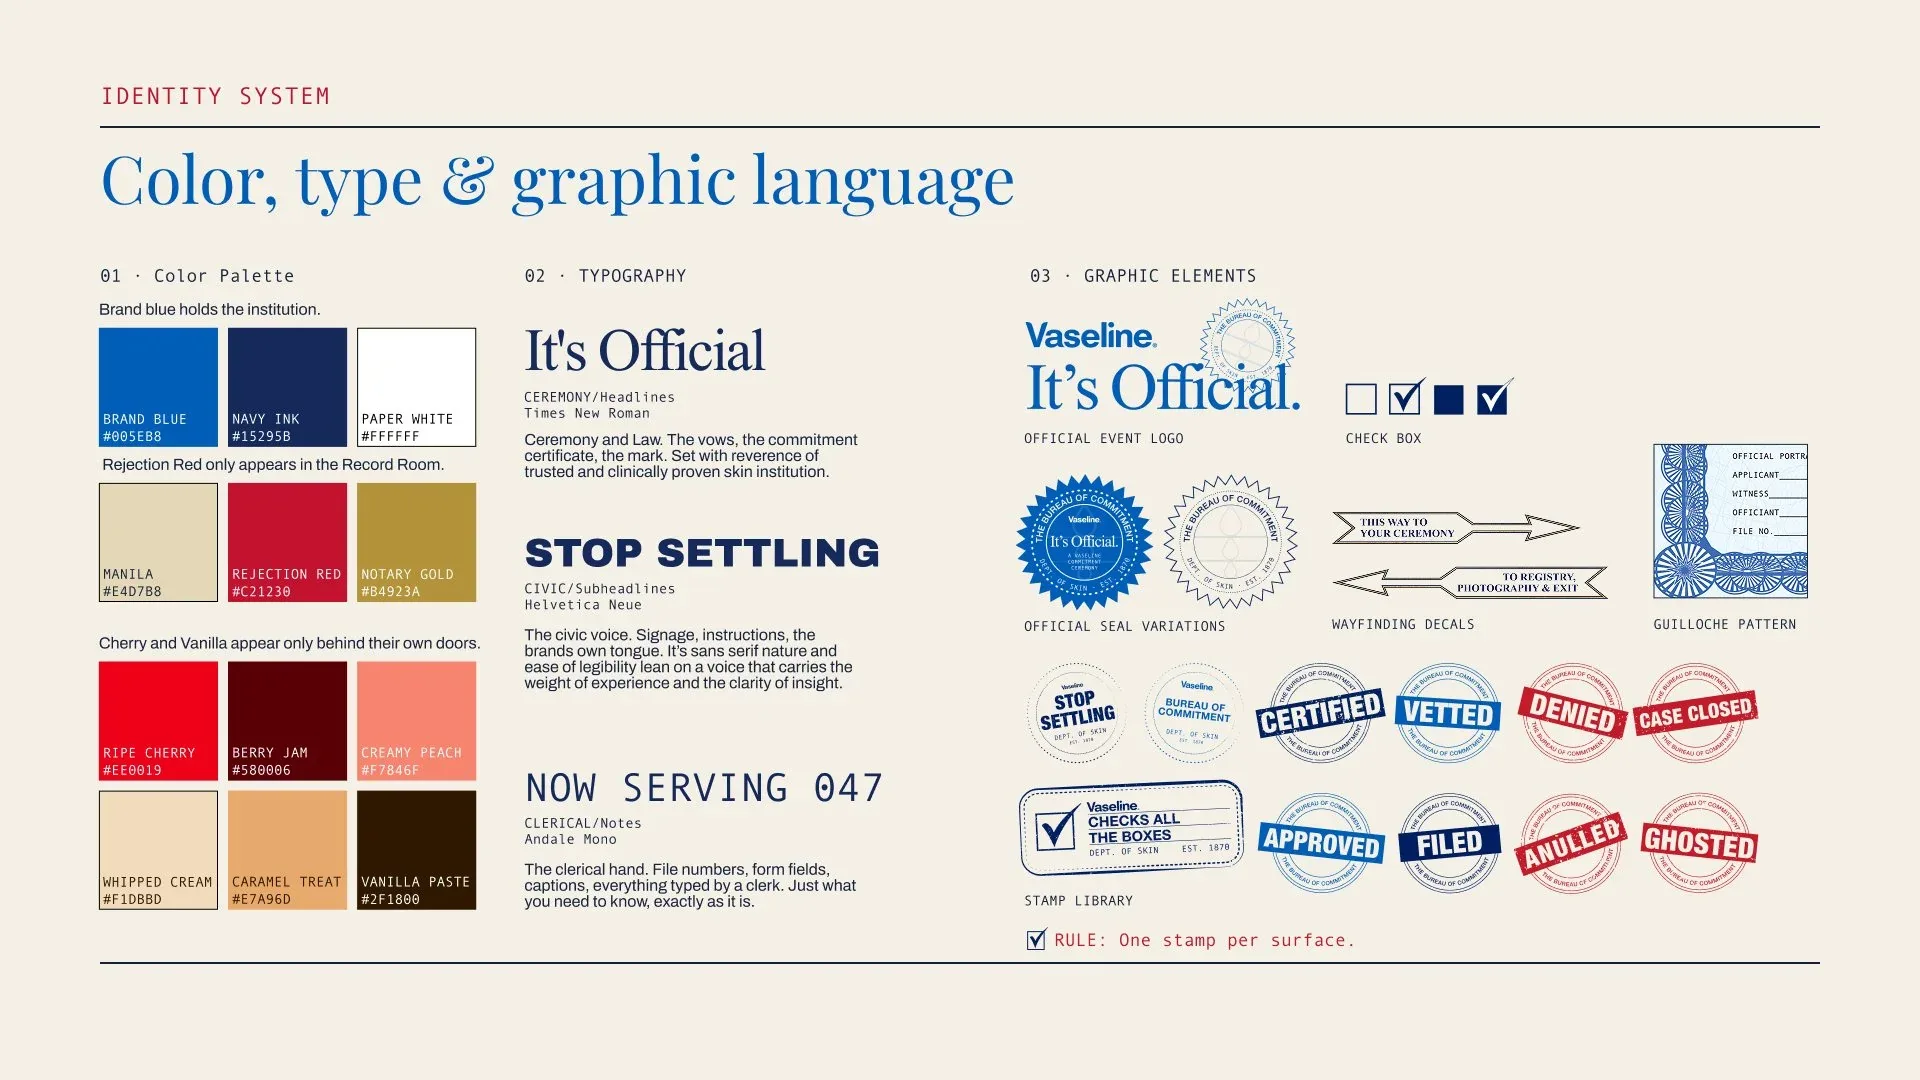
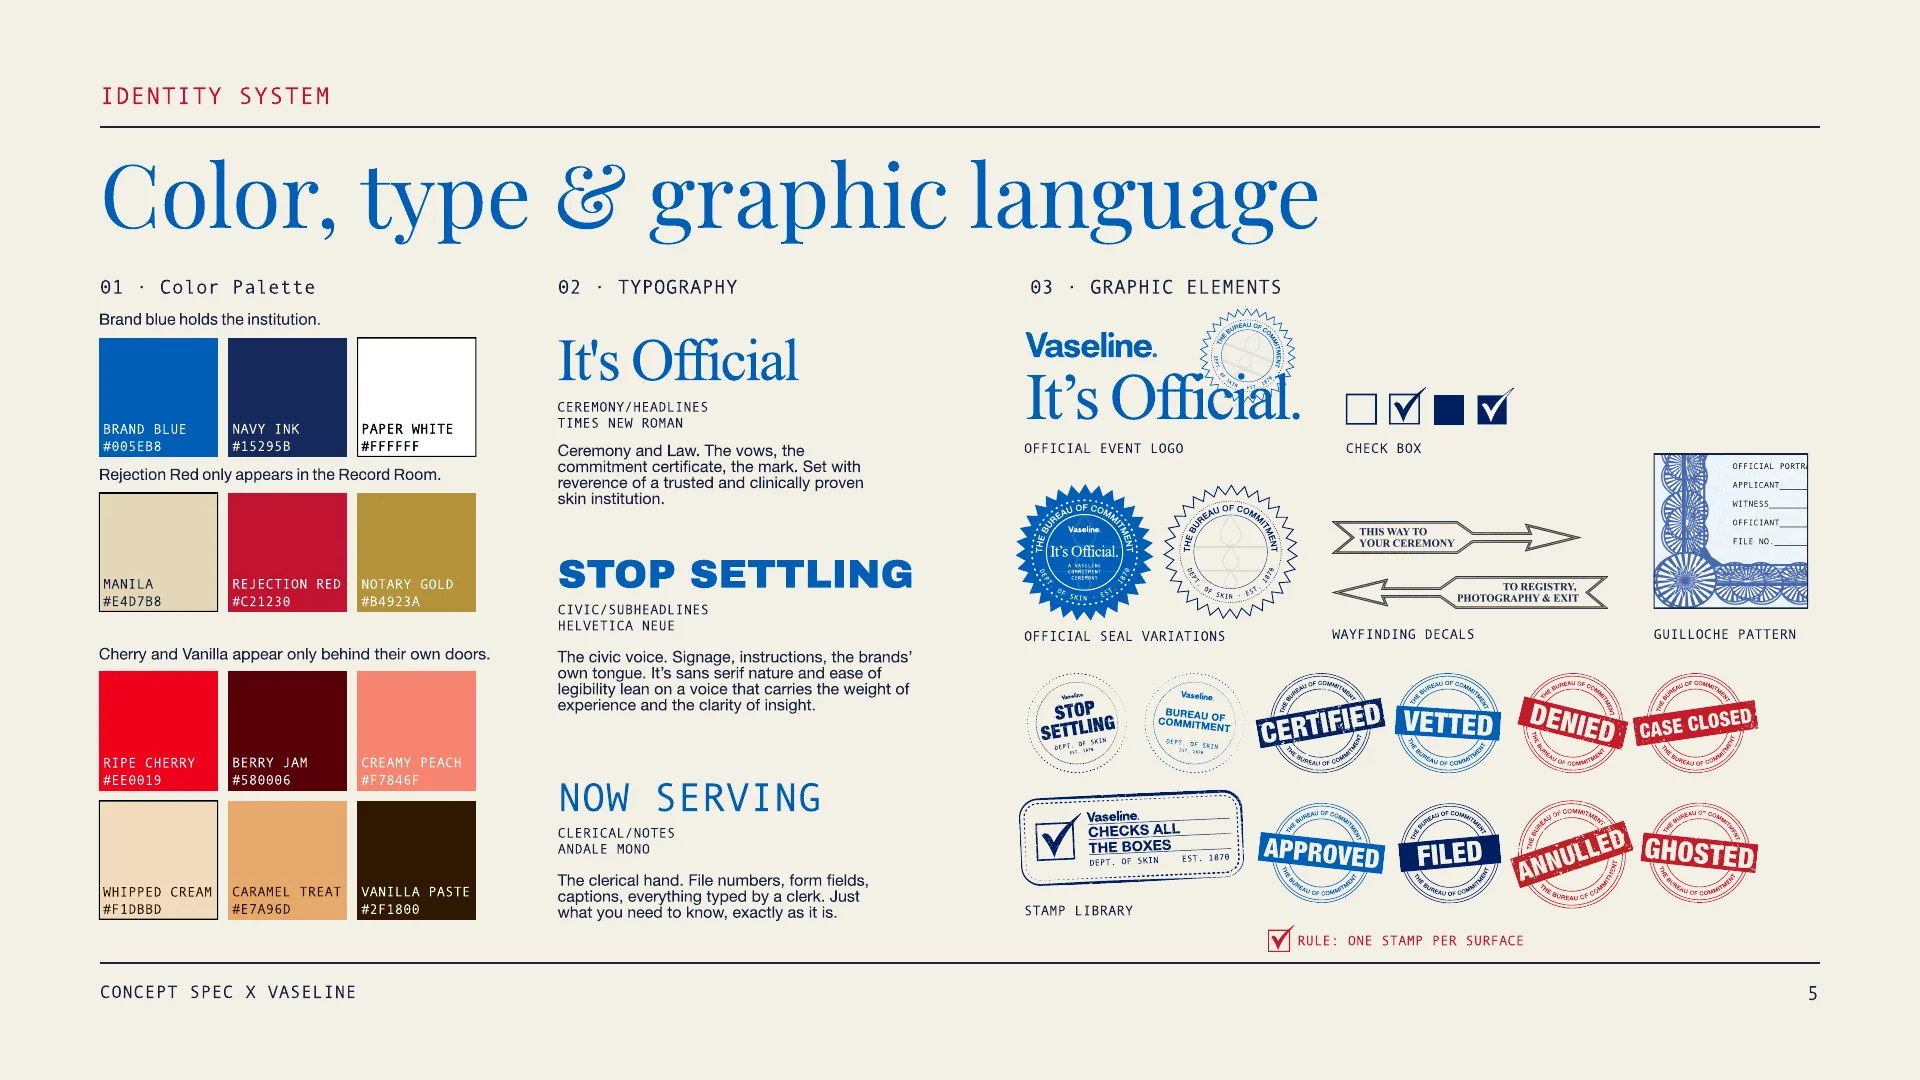
Bureau of Commitment: rebuild from Beth's updated deck (new slides, letterboard, Notice of Appointment, Now Serving, vows)
Claude-Session: https://claude.ai/code/session_01EoUpks6VWixKVrfVUbmg36

diff --git a/project-pages/bureau-of-commitment.html b/project-pages/bureau-of-commitment.html
@@ -1,5 +1,5 @@
 <!-- ============================================================
-  BETH ERIN NEWMAN · PROJECT PAGE: THE BUREAU OF COMMITMENT, VASELINE SPEC  (v1, 2026-11-25, built on the See It Differently template)
+  BETH ERIN NEWMAN · PROJECT PAGE: THE BUREAU OF COMMITMENT, VASELINE SPEC  (v2, 2026-11-25, from Beth's updated deck, built on the See It Differently template)
   Paste ALL of this into ONE Embed block (Code Snippet) on the project page /work-new/experiential-event-identity.
   Needs check-menu-sitewide.html in Code Injection > Footer (napkin + check) and tablecloth-background.css in Custom CSS (gingham).
   The napkin, guest check and gingham stay still. Only this project card scrolls up the page, under the napkin.
@@ -38,34 +38,34 @@
       <li>Event identity and seal</li>
       <li>A four-room guest journey</li>
       <li>Two scent chapels</li>
-      <li>Wayfinding and signs</li>
-      <li>Certificates and paperwork</li>
+      <li>Signs and wayfinding</li>
+      <li>Invites, vows and certificates</li>
     </ul>
   </div>
   <figure class="sid-m sid-hero"><img data-src="entrance" alt="A couple heading into The Bureau of Commitment past a You deserve better, right this way floor mat"></figure>
   <div class="sid-brief">
     <h2>The brief</h2>
-    <p>Vaseline had two new body lotions, Cherry Aura and Vanilla Comfort, and a campaign about not settling. So I opened a marriage bureau. Guests take a number, meet both applicants, then commit to one scent for life. The vows are the product claims, and everyone leaves with a Certificate of Commitment.</p>
+    <p>Vaseline had two new body lotions, Cherry Aura and Vanilla Comfort, and a campaign about not settling. So I opened a marriage bureau. Guests take a number, meet both applicants, then commit to one scent for life. The vows are the clinical claims, and everyone leaves with a certificate and an official portrait.</p>
   </div>
-  <figure class="sid-m sid-video1"><div class="sid-track"><img data-src="slideCover" alt="It's Official cover: The Bureau of Commitment, Dept. of Skin, Est. 1870, with both lotions on a county clerk's desk"><img data-src="slideBigIdea" alt="The big idea: Stop settling. Make it official. A municipal marriage bureau for your skin"><img data-src="slideWhyBureau" alt="Why a bureau? Each campaign line mapped to a room of the Bureau"></div></figure>
+  <figure class="sid-m sid-video1"><div class="sid-track"><img data-src="slideCover" alt="It's Official cover: The Bureau of Commitment, Dept. of Skin, Est. 1870, with both lotions on a county clerk's desk"><img data-src="slideBigIdea" alt="The big idea: Stop settling. Make it official. A municipal marriage bureau for your skin"><img data-src="slideWhyBureau" alt="Why a bureau? Each campaign line mapped to a room of the Bureau"><img data-src="slideLookFeel" alt="The look and the feel: civic austerity for the Bureau, lacquer red for Cherry Aura, caramel for Vanilla Comfort"></div></figure>
   <p class="sid-caption">Vaseline has been stamping its Blue Seal on things since 1870, so a bureau felt like home. I didn't have to invent a world, just find the one the brand already lives in.</p>
   <div class="sid-gifs">
     <figure class="sid-m"><img data-src="letterboard" alt="Lobby letterboard listing the Lobby, the Assessment, the Chapels and the Registry"></figure>
     <figure class="sid-m"><img data-src="recordsRoom" alt="The Records Room, a wall of filed boxes for every lotion that let you down, stamped Denied and Ghosted"></figure>
-    <figure class="sid-m"><img data-src="proceedings" alt="Order of Proceedings with the It's Official seal"></figure>
+    <figure class="sid-m"><img data-src="notice" alt="Notice of Appointment, the summons guests get before they arrive"></figure>
   </div>
   <div class="sid-credits">
     <h2>Credits</h2>
     <p><span>Concept, Identity, Experiential Design and Copy: Beth&nbsp;Newman<br>Brand assets and product photos: Vaseline<br>A spec concept, not commissioned by Vaseline</span></p>
   </div>
-  <figure class="sid-m sid-stills"><div class="sid-track"><img data-src="slideIdentity" alt="Identity system: color palette, type and a stamp library"><img data-src="slideLockups" alt="Lockups and taglines: It's Official, Till dry skin do us part, Certified since 1870"></div></figure>
+  <figure class="sid-m sid-stills"><div class="sid-track"><img data-src="slideIdentity" alt="Identity system: color palette, type and a stamp library"><img data-src="slideLockups" alt="Lockups and taglines: It's Official, Till dry skin do us part, Certified since 1870"><img data-src="slideBuilding" alt="The building tells you what it is: the entrance, the Now Serving board, the letterboard and the Records Room"></div></figure>
   <figure class="sid-m sid-app"><img data-src="certificate" alt="Vaseline Certificate of Commitment with a guilloche border and the It's Official seal"></figure>
-  <figure class="sid-m sid-video2"><div class="sid-track"><img data-src="slideJourney" alt="The guest journey with a floor plan from the waiting room to the registry"><img data-src="slideChapels" alt="The two chapels: Cherry Aura is the whirlwind, Vanilla Comfort is the slow burn"></div></figure>
+  <figure class="sid-m sid-video2"><div class="sid-track"><img data-src="slideJourney" alt="The guest journey with a floor plan from the waiting room to the registry"><img data-src="slideChapels" alt="The two chapels: Cherry Aura is the whirlwind, Vanilla Comfort is the slow burn"><img data-src="slideDocuments" alt="Everything is a document: vows booklet, Order of Proceedings, certificate and Notice of Appointment"></div></figure>
   <div class="sid-cartoons">
     <figure class="sid-m"><img data-src="sqProducts" alt="Cherry Aura and Vanilla Comfort lotions on the county clerk's counter"></figure>
+    <figure class="sid-m"><img data-src="sqNowServing" alt="The Now Serving board in the lobby"></figure>
+    <figure class="sid-m"><img data-src="sqVows" alt="The vows booklet: Do you promise 72 hours of hydration, in dryness and in humidity? I do"></figure>
     <figure class="sid-m"><img data-src="sqStamps" alt="Stamp library: Certified, Vetted, Denied, Case Closed, Approved, Filed, Annulled, Ghosted"></figure>
-    <figure class="sid-m"><img data-src="sqBooklet" alt="The Commitment vows booklet in Vaseline blue"></figure>
-    <figure class="sid-m"><img data-src="sqSeal" alt="Close up of the It's Official seal, Dept. of Skin, Est. 1870"></figure>
   </div>
   <div class="sid-frame" aria-hidden="true"></div>
   <div class="sid-deco" aria-hidden="true">
@@ -245,19 +245,22 @@ html.sid-on body > #sid-page{position:absolute; left:0; top:0; z-index:10}
     certificate: "boc-certificate.webp",
     letterboard: "boc-letterboard.webp",
     recordsRoom: "boc-records-room.webp",
-    proceedings: "boc-order-of-proceedings.webp",
+    notice: "boc-notice-of-appointment.webp",
     sqProducts: "boc-sq-products.webp",
     sqStamps: "boc-sq-stamps.webp",
-    sqBooklet: "boc-sq-booklet.webp",
-    sqSeal: "boc-sq-seal.webp",
+    sqNowServing: "boc-sq-now-serving.webp",
+    sqVows: "boc-sq-vows.webp",
     /* gallery photos (these frames scroll sideways) */
     slideCover: "boc-slide-cover.webp",
     slideBigIdea: "boc-slide-big-idea.webp",
     slideWhyBureau: "boc-slide-why-a-bureau.webp",
+    slideLookFeel: "boc-slide-look-and-feel.webp",
     slideIdentity: "boc-slide-identity-system.webp",
     slideLockups: "boc-slide-lockups.webp",
+    slideBuilding: "boc-slide-experiential-system.webp",
     slideJourney: "boc-slide-guest-journey.webp",
     slideChapels: "boc-slide-two-chapels.webp",
+    slideDocuments: "boc-slide-everything-is-a-document.webp",
     /* 2. Stickers: same links you use on the homepage */
     stickerFavorite: "https://static1.squarespace.com/static/56d886c960b5e9cfa629ff7c/t/6aff5eed9454311243ad05d4/1795120877486/Sticker_3.webp",
     stickerSpecial: "https://static1.squarespace.com/static/56d886c960b5e9cfa629ff7c/t/6aff5f5e12663d02e7bd59a4/1795120990361/Sticker_9.webp",

diff --git a/project-pages/README.md b/project-pages/README.md
@@ -91,4 +91,4 @@ Photos are in `assets/projects/milk-bar-packaging/`, taken from Beth's live site
 1. In Work New, add The Bureau of Commitment project page. Set its URL slug to `experiential-event-identity` (page settings, URL Slug), the same slug the old site used. The homepage print already links there.
 2. Paste `bureau-of-commitment.html` into its one Embed block.
 
-Photos are in `assets/projects/bureau-of-commitment/`, taken from the old site's Experiential page (Beth's pitch deck slides and mockups). No videos. Three frames are side-scrolling galleries: the cover, big idea and why a bureau slides; the identity and lockup slides; and the guest journey and two chapels slides. The three tall frames are the lobby letterboard, the Records Room wall and the Order of Proceedings. The squares are the two lotions, the stamp library, the vows booklet and the seal. The credits say it's a spec concept, not commissioned by Vaseline.
+Photos are in `assets/projects/bureau-of-commitment/`, taken from Beth's updated deck ("Vaseline Bureau of Skin.pdf", Nov 25 2026) plus the Records Room and certificate mockups from the old site. No videos. Three frames are side-scrolling galleries: the cover, big idea, why a bureau and look and feel slides; the identity, lockups and experiential system slides; and the guest journey, two chapels and everything is a document slides. The three tall frames are the lobby letterboard, the Records Room wall and the Notice of Appointment. The squares are the two lotions, the Now Serving board, the vows booklet and the stamp library. The credits say it's a spec concept, not commissioned by Vaseline. Never name the agency it was pitched to (Beth).
